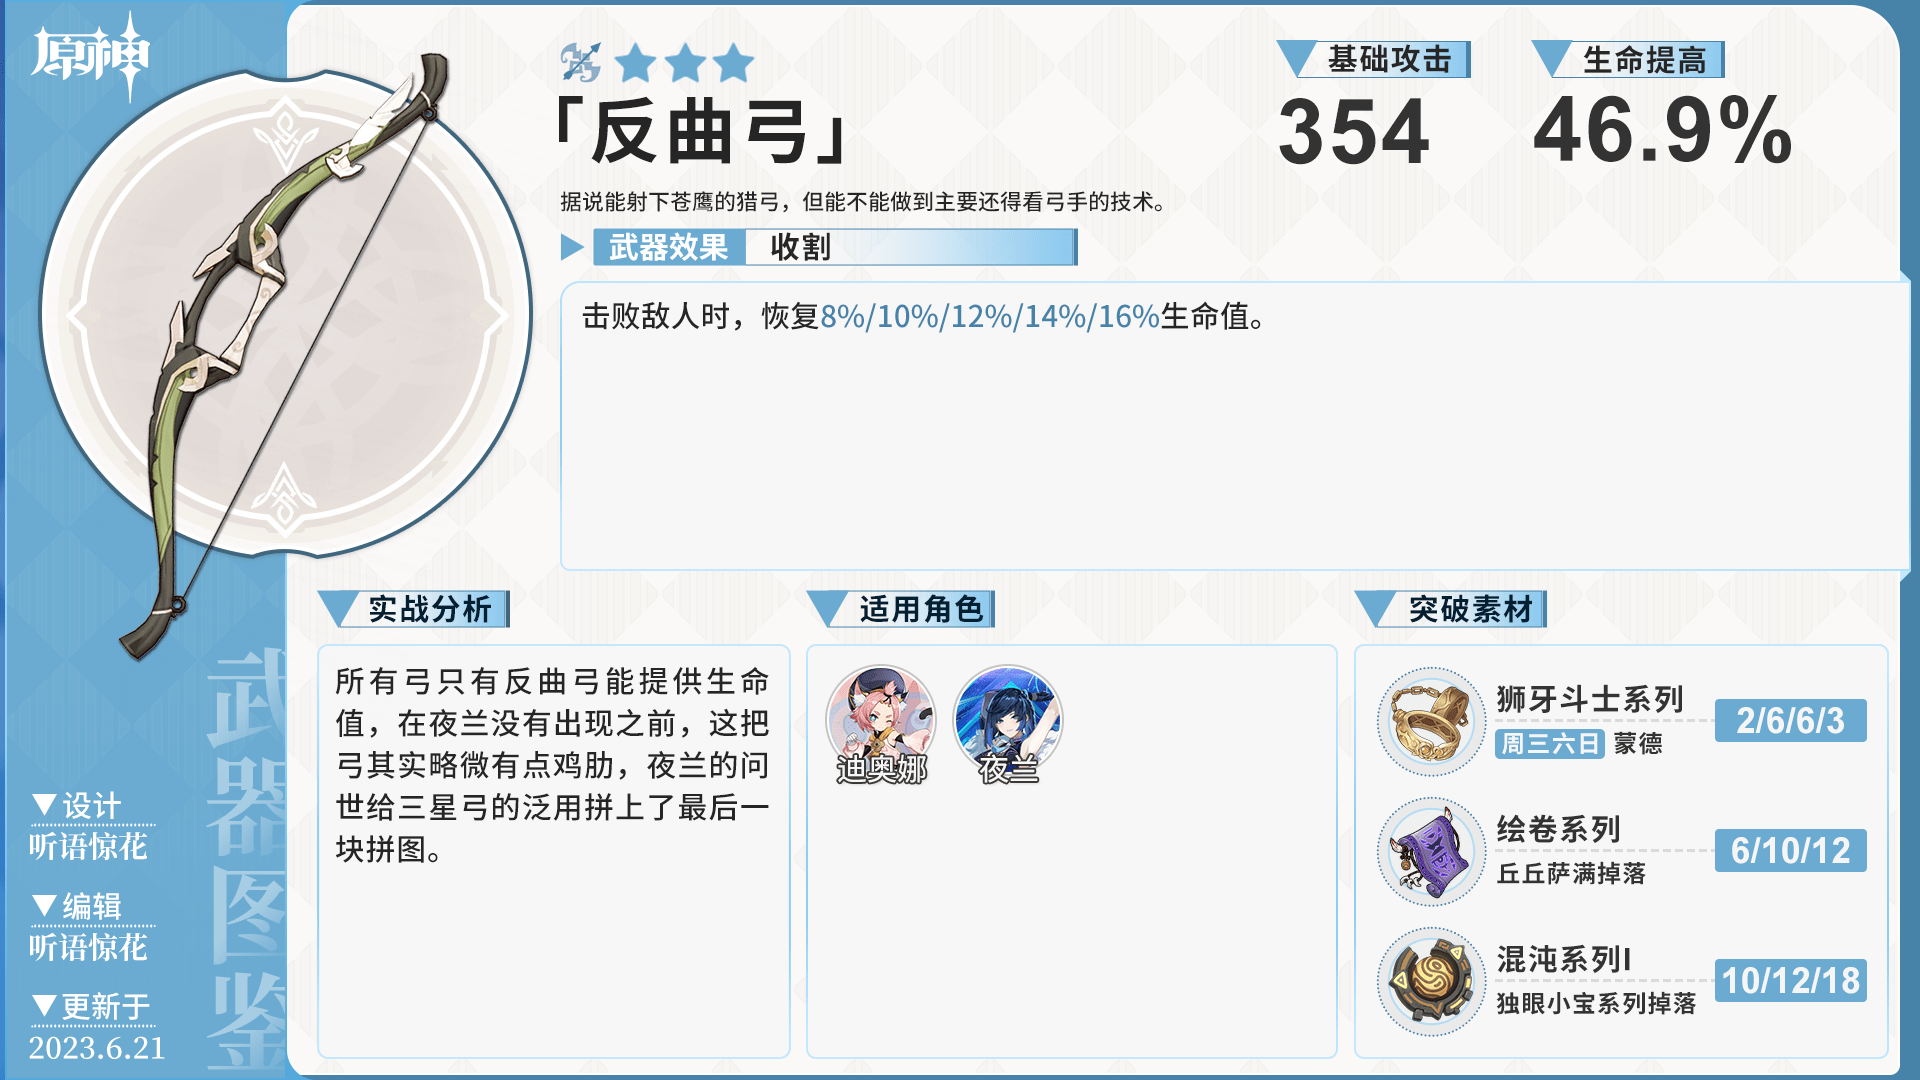
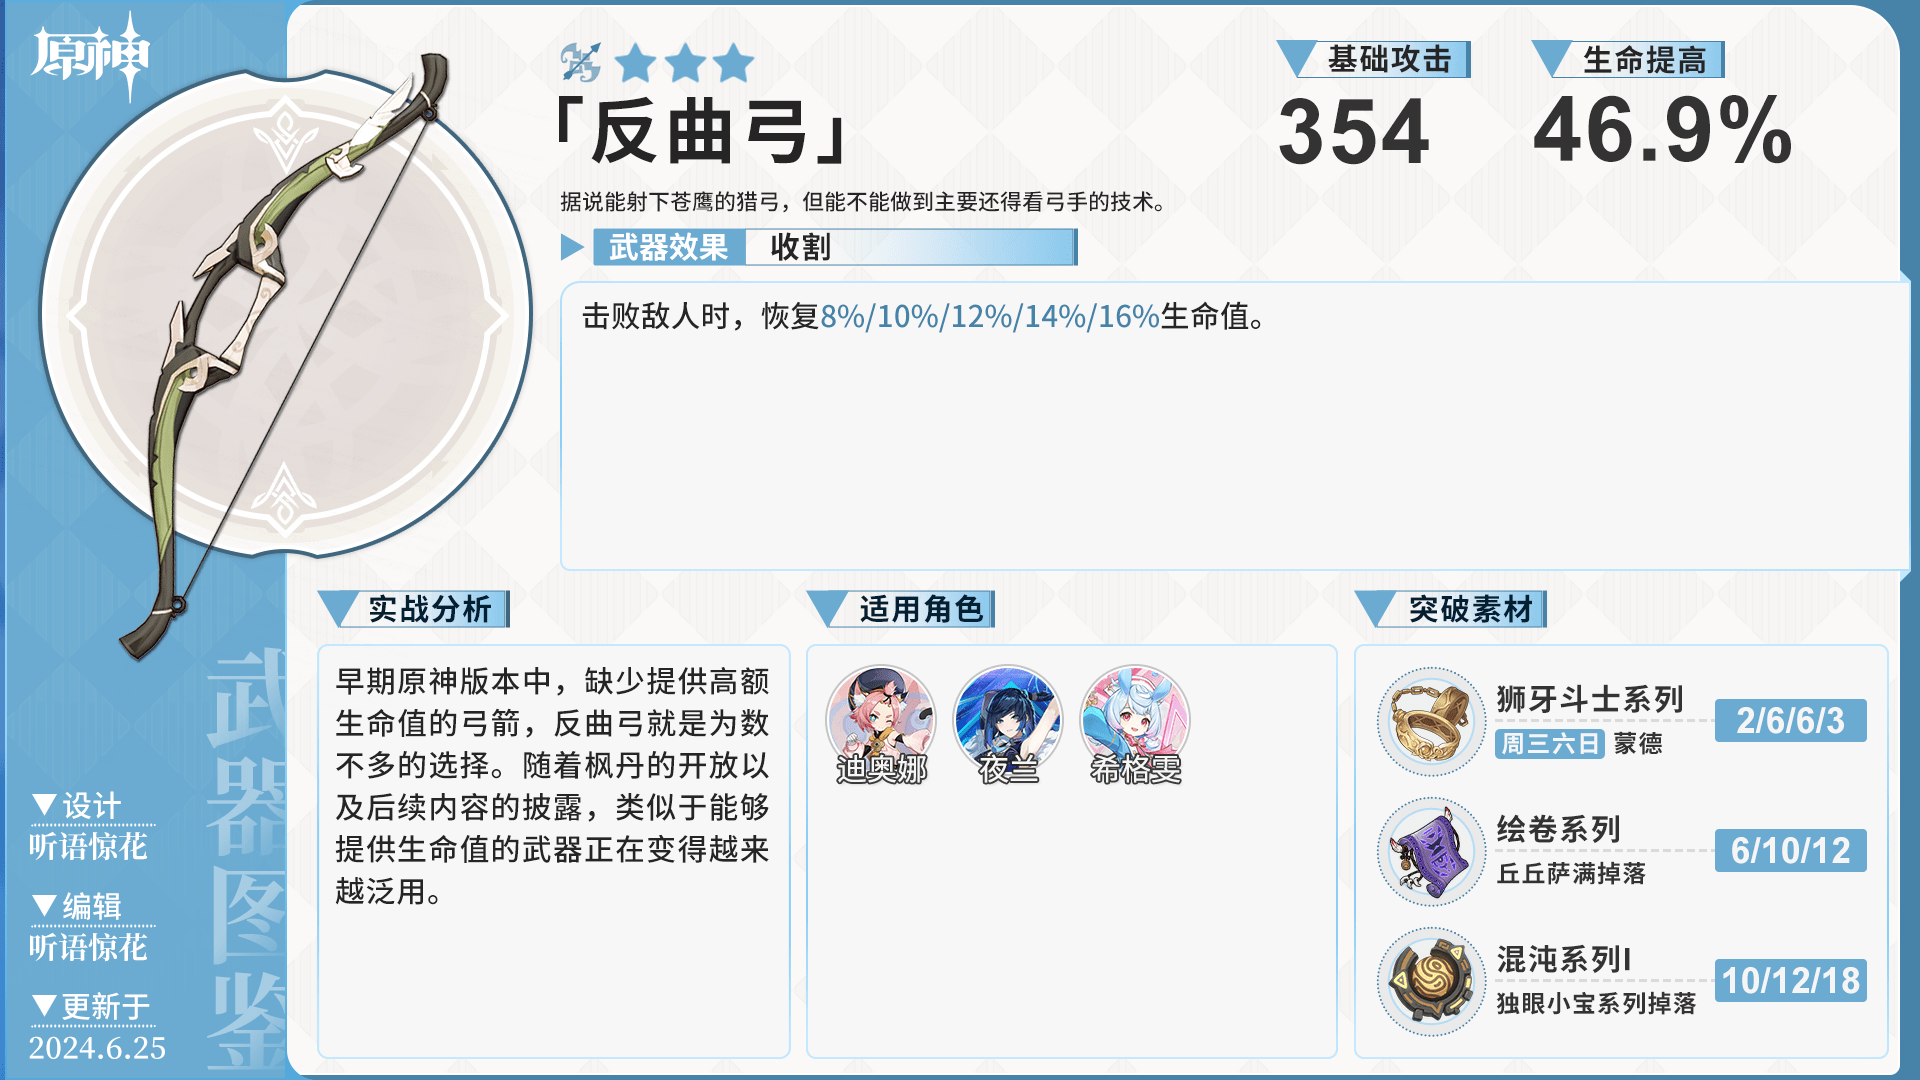
4.7fix

Changed region(s): [[0.1562, 0.6111, 0.4062, 0.8556], [0.5625, 0.6111, 0.625, 0.7333]]

diff --git a/README.md b/README.md
@@ -2,9 +2,9 @@
 Genshin-Atlas是一个主要由[`米游社@听语惊花`](https://bbs.mihoyo.com/ys/accountCenter/postList?id=289918413)（而不是西风驿站）制作的原神(Genshin Impact)游戏图鉴。
 
 ## 目录结构
-- [x] 武器图鉴（更新至4.5）
-- [x] 角色材料（更新至4.5）
-- [x] 圣遗物图鉴（更新至4.3）
+- [x] 武器图鉴（更新至4.7）
+- [x] 角色材料（更新至4.7）
+- [x] 圣遗物图鉴（更新至4.6）
 - [x] 原魔图鉴（更新至4.3）
 - [x] 区域特产（更新至4.0）
 - [x] 食物图鉴（更新至3.8）
